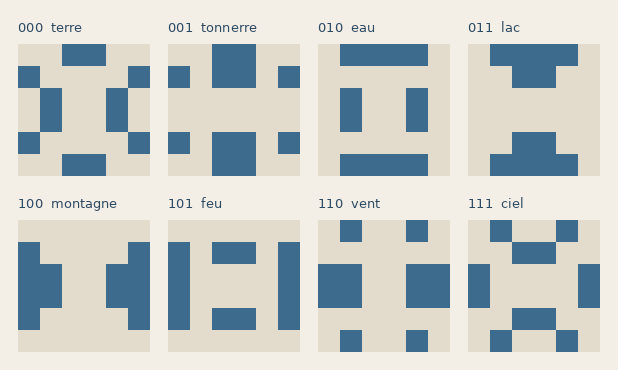
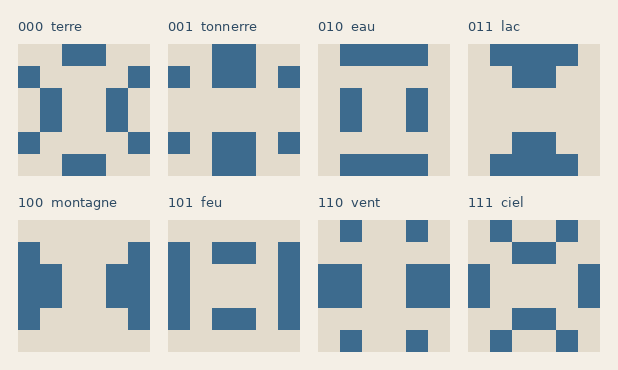
formes-colonne.png : la figure originale d'Anibal remplace la version recalculée
Mêmes cases (comparaison au pixel : les écarts ne touchent que les étiquettes).

Claude-Session: https://claude.ai/code/session_011CBGTEEw1pUWrFDkYyN71b

diff --git a/TODO-RELECTURE.md b/TODO-RELECTURE.md
@@ -632,6 +632,5 @@ Ce qui n'est **pas** de sa main, à relire :
   la ligne avant « dans chaque **colonne** » que l'export avait perdu ;
 - la **meta description** et l'**extrait** de la liste des articles (l'extrait est une phrase
   de l'article) ; les catégories Géométrie, Livrée, Divination ;
-- la figure **`formes-colonne.png`** : recalculée depuis `data/referent_256_v3.json` dans le
-  style des quatre autres (l'image envoyée n'est pas arrivée en fichier). À remplacer par
-  l'originale si elle diffère.
+- ~~la figure `formes-colonne.png`~~ : remplacée le 2026-10-08 par l'originale d'Anibal
+  (mêmes cases que la version recalculée ; seules les étiquettes différaient).
